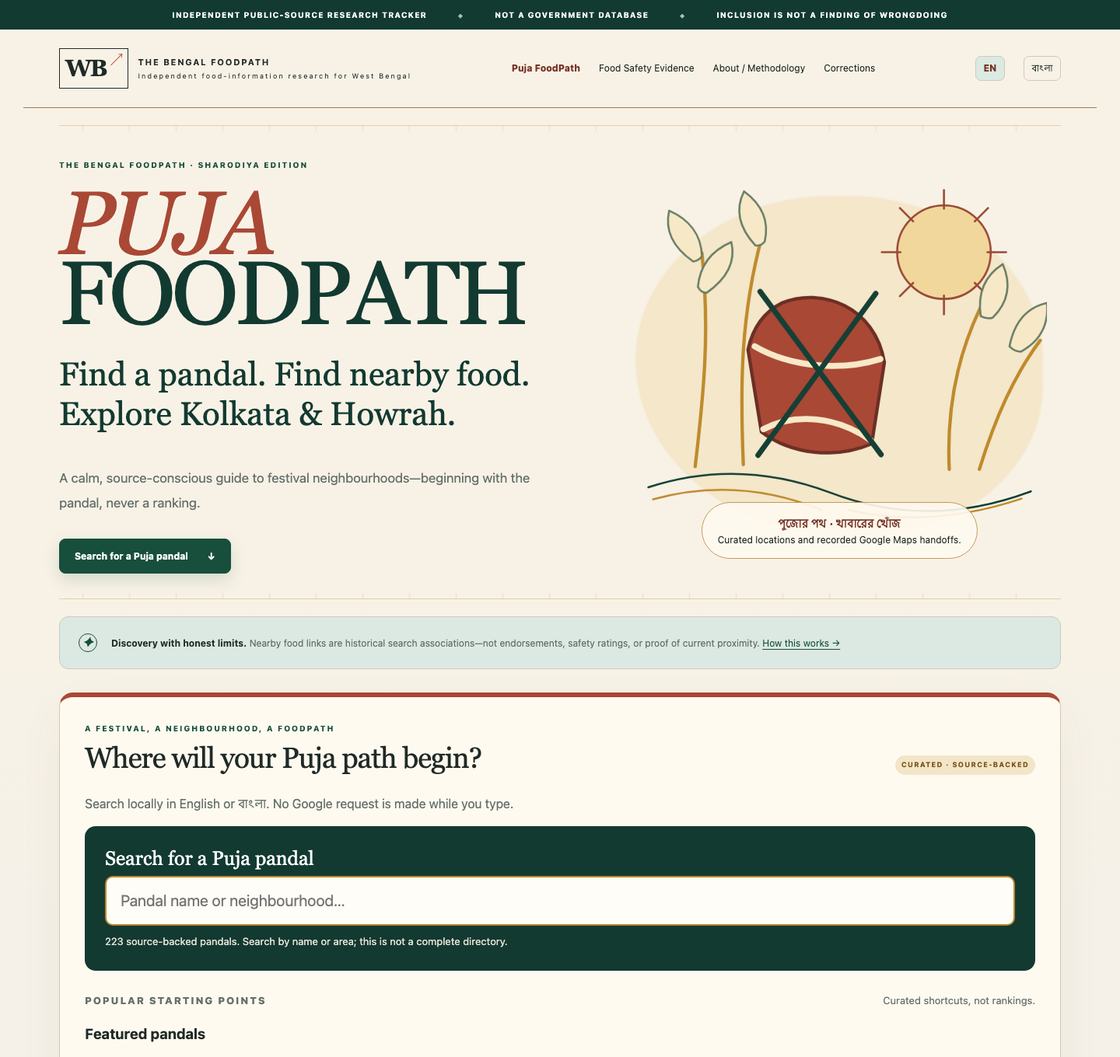
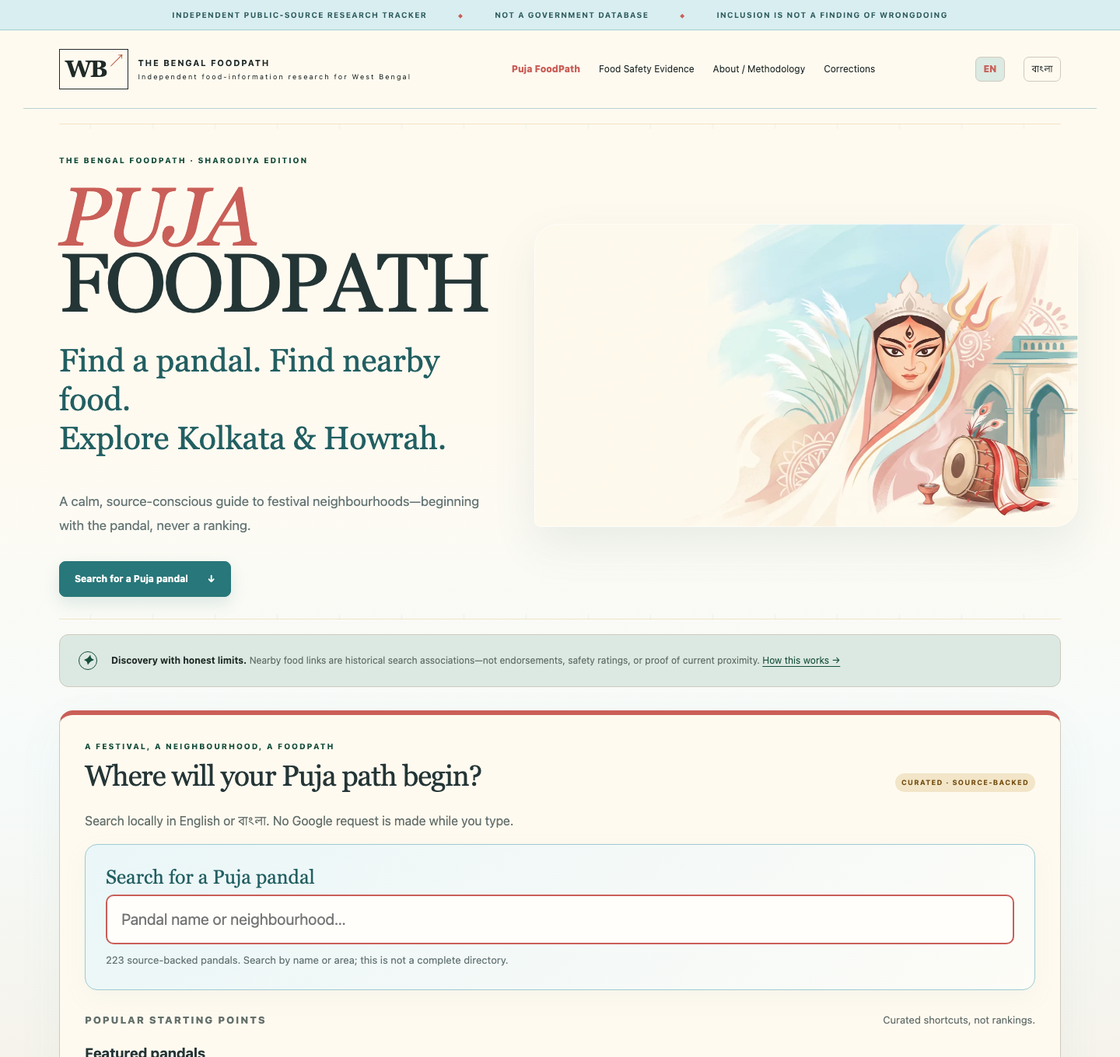
fix: restore production Google map and refine Puja visual theme

diff --git a/site/styles.css b/site/styles.css
@@ -357,35 +357,56 @@ html[lang=bn] .eyebrow, html[lang=bn] .status-strip { letter-spacing: normal; }
 @media (max-width: 640px) { .masthead { flex-wrap: wrap; } .language-toggle { margin-top: .5rem; } .map-key { font-size: .85rem; } }
 @media (prefers-reduced-motion: reduce) { *, *::before, *::after { animation: none !important; transition: none !important; } }
 
-/* Sharodiya landing: warm discovery and cool evidence remain clearly separate. */
-:root { --vermilion:#a94835; --vermilion-dark:#763326; --gold:#c08a2d; --festival-cream:#f7e9c7; --night-green:#123a31; }
-.puja-route { background:linear-gradient(#f8f2e6 0 760px,var(--paper) 1180px); }
-.puja-route .status-strip { background:var(--night-green); }
-.puja-route .masthead { border-bottom-color:#987b55; }
-.puja-route .masthead nav a:first-child { color:var(--vermilion-dark); font-weight:800; }
-.puja-hero { min-height:610px; display:grid; grid-template-columns:1.08fr .92fr; gap:50px; align-items:center; padding:65px 0 55px; position:relative; }
-.puja-hero::before { content:""; position:absolute; inset:22px 0; pointer-events:none; border-block:1px solid #c08a2d55; background:repeating-linear-gradient(90deg,transparent 0 29px,#a9483514 30px 31px,transparent 32px 60px); mask:linear-gradient(black 0 8px,transparent 8px calc(100% - 8px),black calc(100% - 8px)); }
+/* Sharodiya landing: airy festival discovery and calm evidence remain distinct. */
+:root {
+  --puja-ivory:#fffaf0; --puja-sky:#b9dde8; --puja-sky-soft:#eaf6f8;
+  --puja-blush:#f8e8e4; --puja-coral:#c95f58; --puja-gold:#d2a13b;
+  --puja-teal:#28777a; --puja-ink:#243536; --puja-muted:#657575;
+}
+.puja-route { background:linear-gradient(180deg,#fffaf0 0 520px,#f6fbfa 980px,var(--paper) 1450px); color:var(--puja-ink); }
+.puja-route .status-strip { background:#d8eef0; color:#315d60; border-bottom:1px solid #a7ced2; }
+.puja-route .status-strip span + span::before { color:var(--puja-coral); }
+.puja-route .masthead { border-bottom-color:#b8d2d1; }
+.puja-route .masthead nav a:first-child { color:var(--puja-coral); font-weight:800; }
+.puja-hero { min-height:570px; display:grid; grid-template-columns:.9fr 1.1fr; gap:clamp(28px,4vw,62px); align-items:center; padding:58px 0 48px; position:relative; }
+.puja-hero::before { content:""; position:absolute; inset:19px 0; pointer-events:none; border-block:1px solid #d2a13b40; background:repeating-linear-gradient(90deg,transparent 0 39px,#b9dde829 40px 41px,transparent 42px 80px); mask:linear-gradient(black 0 7px,transparent 7px calc(100% - 7px),black calc(100% - 7px)); }
 .puja-hero-copy { position:relative; z-index:1; }
-.puja-hero h1 { font-size:clamp(68px,8vw,116px); line-height:.78; letter-spacing:-5px; margin:22px 0 34px; color:var(--night-green); }
-.puja-hero h1 span { color:var(--vermilion); font-style:italic; }
-.puja-hero .brand-tagline { font:clamp(27px,3vw,42px)/1.22 var(--serif); color:var(--night-green); }
-.puja-hero .dek { max-width:630px; }
-.puja-hero-art { position:relative; align-self:stretch; display:grid; align-content:center; padding:18px; }
-.puja-hero-art::before { content:""; position:absolute; inset:9% 4%; border-radius:50% 50% 46% 54%; background:#efdcae80; filter:blur(1px); }
-.puja-hero-art img { position:relative; width:100%; max-height:470px; animation:festival-breathe 7s ease-in-out infinite; }
-.puja-hero-art p { position:relative; margin:-25px auto 0; padding:14px 20px; max-width:360px; text-align:center; background:#fffaf0e8; border:1px solid #c49b58; border-radius:40px; font-size:12px; }
-.puja-hero-art strong { color:var(--vermilion-dark); font-size:15px; }
-@keyframes festival-breathe { 50% { transform:translateY(-7px) rotate(.35deg); } }
-.puja-section { border-top:6px solid var(--vermilion); box-shadow:0 22px 60px #5c35120d; background:#fffaf0; }
-.puja-search-wrap { max-width:none; padding:26px; background:var(--night-green); border-radius:14px; color:white; }
-.puja-search-wrap label { font:25px/1.2 var(--serif); }
-#pandal-search { background:#fffdf7; border-color:var(--gold); font-size:20px; min-height:64px; }
-#pandal-search-status { color:#e8e3d5; margin-bottom:0; }
-.featured-pandals .pandal-card { position:relative; overflow:hidden; background:#fffdf8; border-color:#d6b982; transition:transform .2s ease,box-shadow .2s ease; }
-.featured-pandals .pandal-card::after { content:"✦"; position:absolute; right:17px; top:10px; color:#c08a2d66; font-size:34px; }
-.featured-pandals .pandal-card:hover { transform:translateY(-3px); box-shadow:0 12px 25px #50310d14; }
-.selected-pandal { background:#fffaf0; border-left-color:var(--vermilion); box-shadow:0 16px 35px #45320f12; animation:selected-reveal .3s ease-out; }
+.puja-hero h1 { font-size:clamp(64px,7.4vw,108px); line-height:.8; letter-spacing:-5px; margin:22px 0 32px; color:var(--puja-ink); }
+.puja-hero h1 span { color:var(--puja-coral); font-style:italic; }
+.puja-hero .brand-tagline { font:clamp(27px,3vw,41px)/1.22 var(--serif); color:#225f62; }
+.puja-hero .dek { max-width:600px; color:var(--puja-muted); }
+.puja-route .primary { background:var(--puja-teal); border-color:var(--puja-teal); box-shadow:0 8px 20px #28777a24; }
+.puja-route .primary:hover { background:#1f6164; }
+.puja-hero-art { position:relative; min-height:390px; aspect-ratio:43/24; overflow:hidden; border-radius:30px 8px 30px 8px; background:linear-gradient(135deg,var(--puja-sky-soft),var(--puja-blush)); box-shadow:0 22px 55px #3d77751c; }
+.puja-hero-art::after { content:""; position:absolute; inset:0; border:1px solid #ffffffaa; border-radius:inherit; pointer-events:none; }
+.puja-hero-art img { width:100%; height:100%; object-fit:cover; object-position:66% center; display:block; animation:festival-breathe 8s ease-in-out infinite; }
+.puja-hero-art-fallback { display:none; position:absolute; inset:0; align-content:center; justify-items:center; gap:8px; color:var(--puja-teal); background:radial-gradient(circle at 68% 45%,#f7deda,transparent 35%),linear-gradient(135deg,var(--puja-sky-soft),var(--puja-ivory)); }
+.puja-hero-art-fallback span { font:48px/1.1 var(--serif); color:var(--puja-coral); }
+.puja-hero-art.image-unavailable img { display:none; }
+.puja-hero-art.image-unavailable .puja-hero-art-fallback { display:grid; }
+@keyframes festival-breathe { 50% { transform:scale(1.012) translateY(-2px); } }
+.puja-section { border-top:6px solid var(--puja-coral); box-shadow:0 22px 60px #4f8d8a10; background:var(--puja-ivory); }
+.puja-search-wrap { max-width:none; padding:26px; background:linear-gradient(135deg,var(--puja-sky-soft),#fdfcf7); border:1px solid #9dcbd2; border-radius:16px; color:var(--puja-ink); box-shadow:0 10px 30px #74aeb012; }
+.puja-search-wrap label { font:25px/1.2 var(--serif); color:#225f62; }
+#pandal-search { background:#fffefb; border-color:var(--puja-coral); font-size:20px; min-height:64px; }
+#pandal-search:focus { outline-color:var(--puja-gold); box-shadow:0 0 0 5px #d2a13b1f; }
+#pandal-search-status { color:var(--puja-muted); margin-bottom:0; }
+.featured-pandals .pandal-card { position:relative; overflow:hidden; background:var(--puja-sky-soft); border-color:#b6d7da; transition:transform .2s ease,box-shadow .2s ease; }
+.featured-pandals .pandal-card:nth-child(2n) { background:#fdf1ed; border-color:#edcac1; }
+.featured-pandals .pandal-card:nth-child(3n) { background:#fff6df; border-color:#ead5a3; }
+.featured-pandals .pandal-card::after { content:"✦"; position:absolute; right:17px; top:10px; color:#c95f5855; font-size:31px; }
+.featured-pandals .pandal-card:hover { transform:translateY(-2px); box-shadow:0 12px 25px #39747716; }
+.selected-pandal { background:linear-gradient(135deg,#f1faf9,var(--puja-ivory)); border-left-color:var(--puja-coral); box-shadow:0 16px 35px #39747712; animation:selected-reveal .3s ease-out; }
 @keyframes selected-reveal { from { opacity:0; transform:translateY(8px); } }
+.geography-intro { margin-top:58px; padding:24px 28px; border-radius:18px 18px 0 0; background:linear-gradient(110deg,#dff2f4,#fff7e8); border:1px solid #b7d9dc; border-bottom:0; }
+.geography-intro .section-heading { margin:0; }
+.puja-route .map-panel { background:linear-gradient(150deg,#f3fbfb,#e7f5f7); border-color:#b5d8db; border-top:0; border-radius:0 0 18px 18px; box-shadow:0 18px 50px #427d7c12; }
+.puja-route .map-panel .panel-heading h3 { font:30px/1.2 var(--serif); color:#245e61; }
+.puja-route .google-map-shell { background:linear-gradient(145deg,#dff2f4,#fff6e3); border-color:#a9d1d5; border-radius:16px; }
+.puja-route .map-fallback { min-height:270px; display:grid; justify-items:center; align-content:center; gap:8px; }
+.puja-route .map-symbol { color:var(--puja-coral); }
+.puja-route .map-layer-key span:first-child { color:#527a85; }
+.puja-route .map-layer-key span:last-child { color:#a4544d; font-weight:700; }
 .food-safety-teaser { display:grid; grid-template-columns:.9fr 1.1fr; gap:50px; align-items:center; margin:55px 0; padding:35px 40px; border-radius:16px; border:1px solid #b5c9c3; border-top:5px solid var(--blue); background:#edf4f2; }
 .food-safety-teaser h2 { font:35px/1.15 var(--serif); margin:5px 0; }
 .food-safety-teaser strong { font:25px var(--serif); color:var(--blue); }
@@ -397,16 +418,16 @@ html[lang=bn] .eyebrow, html[lang=bn] .status-strip { letter-spacing: normal; }
 .safety-route .metrics > div { border-top-color:var(--blue); }
 [hidden] { display:none !important; }
 @media(max-width:800px) {
-  .puja-hero { grid-template-columns:1fr; min-height:auto; padding-top:42px; gap:0; }
+  .puja-hero { grid-template-columns:1fr; min-height:auto; padding-top:42px; gap:30px; }
   .puja-hero h1 { letter-spacing:-3px; }
-  .puja-hero-art { max-width:500px; margin:auto; }
+  .puja-hero-art { width:100%; min-height:0; max-height:440px; margin:auto; }
   .food-safety-teaser { grid-template-columns:1fr; gap:15px; padding:27px 22px; }
 }
 @media(max-width:520px) {
   .puja-route .masthead nav { display:grid; grid-template-columns:1fr 1fr; }
   .puja-hero h1 { font-size:60px; }
   .puja-hero .brand-tagline { font-size:26px; }
-  .puja-hero-art img { max-height:310px; }
+  .puja-hero-art { border-radius:20px 6px 20px 6px; }
   .puja-search-wrap { padding:20px 15px; }
   .safety-hero { padding:34px 22px; }
 }

diff --git a/site/index.html b/site/index.html
@@ -33,7 +33,7 @@
     <div id="dashboard-view">
     <section class="puja-hero puja-only" aria-labelledby="headline">
       <div class="puja-hero-copy"><p class="eyebrow">THE BENGAL FOODPATH · SHARODIYA EDITION</p><h1 id="headline"><span>PUJA</span><br>FOODPATH</h1><p class="brand-tagline">Find a pandal. Find nearby food.<br>Explore Kolkata &amp; Howrah.</p><p class="dek">A calm, source-conscious guide to festival neighbourhoods—beginning with the pandal, never a ranking.</p><a class="button primary" href="#pandal-search">Search for a Puja pandal <span aria-hidden="true">↓</span></a></div>
-      <div class="puja-hero-art"><img src="assets/puja-line-art.svg" alt=""><p><strong>পুজোর পথ · খাবারের খোঁজ</strong><br>Curated locations and recorded Google Maps handoffs.</p></div>
+      <div class="puja-hero-art"><img id="puja-hero-image" src="assets/puja/puja_hero.webp" width="1376" height="768" alt="An elegant Sharodiya illustration of Maa Durga, kaash flowers, a dhaak and Kolkata architecture"><div class="puja-hero-art-fallback" aria-hidden="true"><span>শারদীয়া</span><strong>পুজোর পথ · খাবারের খোঁজ</strong></div></div>
     </section>
     <section class="safety-hero safety-only" aria-labelledby="food-safety-heading"><p class="eyebrow">RESEARCH / PUBLIC-SOURCE EVIDENCE</p><h1>FOOD SAFETY<br><em>EVIDENCE</em></h1><p class="brand-tagline">Source-backed inspection reporting, with visible limits.</p><dl class="edition-status"><dt>Last successful refresh</dt><dd id="last-update">Loading status…</dd><dt>Last source scan</dt><dd id="last-scan">Loading…</dd><dt>Dataset version</dt><dd id="dataset-version">Loading…</dd></dl><p id="run-status" class="fine-print">Checking update status.</p><a class="text-link" href="index.html">← Return to Puja FoodPath</a></section>
     <aside class="interpretation puja-only"><span class="note-symbol" aria-hidden="true">✦</span><p><strong>Discovery with honest limits.</strong> Nearby food links are historical search associations—not endorsements, safety ratings, or proof of current proximity. <a href="methodology.html">How this works →</a></p></aside>
@@ -54,7 +54,7 @@
       <div class="featured-heading"><div><p class="eyebrow">POPULAR STARTING POINTS</p><h3>Featured pandals</h3></div><p>Curated shortcuts, not rankings.</p></div><div id="featured-pandals" class="featured-pandals"></div>
       <p class="puja-notice">Restaurant discovery is separate from food-safety evidence. Nearby does not mean safe, inspected, or endorsed.</p>
     </section>
-    <section id="geography" class="puja-only" aria-labelledby="geography-heading"><div class="section-heading"><div><p class="eyebrow">PANDALS FIRST · CONTEXT ON REQUEST</p><h2 id="geography-heading">See the festival geography</h2></div><p>Curated pandals by default.<br>Food-safety areas are an optional layer.</p></div></section>
+    <section id="geography" class="puja-only geography-intro" aria-labelledby="geography-heading"><div class="section-heading"><div><p class="eyebrow">PANDALS FIRST · CONTEXT ON REQUEST</p><h2 id="geography-heading">Explore Puja geography</h2></div><p>Curated pandals by default.<br>Food-safety areas are optional context.</p></div></section>
     <section class="food-safety-teaser puja-only"><div><p class="eyebrow">A SEPARATE RESEARCH MODULE</p><h2>Food Safety Evidence</h2><p><strong id="teaser-events">—</strong> active records · <strong id="teaser-areas">—</strong> areas · <strong id="teaser-sources">—</strong> sources</p></div><div><p>Inspect the cited reporting, filters, provenance and publication history. Festival discovery does not change the meaning of these records.</p><a class="button research" href="index.html?module=safety">Explore the evidence tracker →</a></div></section>
     <details id="evidence-analytics" class="analytics-disclosure safety-only" open><summary>Explore food-safety analytics <span>Coverage, trends and source composition</span></summary>
     <section aria-labelledby="patterns-heading">
@@ -65,7 +65,7 @@
       </div>
       <div class="chart-grid">
         <article class="chart-panel wide"><div class="panel-heading"><div><h3>Reported events over time</h3><p>Source-verifiable records in this tracker—not official inspection totals.</p></div><span>DATE</span></div><div id="chart-timeline" class="chart chart-svg" role="group" aria-label="Reported records over time. Select a date to filter evidence."></div><p class="chart-notice"></p></article>
-        <article class="chart-panel wide map-panel"><div class="panel-heading"><div><h3>Geographic view of reported areas</h3><p id="map-coverage">Loading geographic coverage…</p></div><span>COARSE LOCATION</span></div><div class="google-map-shell"><div id="google-map-host"></div><div id="map-fallback" class="map-fallback"><span aria-hidden="true" class="map-symbol">⌖</span><h3>Your local context, on the map.</h3><p id="google-map-status" role="status">The area summary below works without Google Maps.</p><button id="load-google-map" class="button secondary" type="button" disabled>Open live Google map</button><p class="fine-print">Only loading the map contacts Google. Pandal search makes no Google Places requests.</p></div></div><div class="map-layer-key"><span>● Reported food-safety areas</span><span>◆ Curated Puja pandals</span></div><details class="area-summary" open><summary>Reported areas — accessible list</summary><div id="chart-map" class="chart" role="group" aria-label="Coarse geographic reference points for records with reviewed location anchors"></div></details><p class="context-caption">Markers indicate reviewed geographic anchors for reported areas. They are not establishment addresses and should not be interpreted as a measure of incidence or prevalence. Select a marker or area button to inspect the evidence.</p><p class="fine-print"><a href="https://www.openstreetmap.org/copyright" rel="noopener noreferrer">Area anchors © OpenStreetMap contributors</a> · <a href="https://www.google.com/help/terms_maps/" rel="noopener noreferrer">Google Maps terms</a> · <a href="https://policies.google.com/privacy" rel="noopener noreferrer">Google privacy</a></p></article>
+        <article class="chart-panel wide map-panel"><div class="panel-heading"><div><p class="eyebrow">OPTIONAL LIVE MAP</p><h3>Explore Puja geography</h3><p id="map-coverage">Loading geographic coverage…</p></div><span>PANDALS FIRST</span></div><div class="google-map-shell"><div id="google-map-host"></div><div id="map-fallback" class="map-fallback"><span aria-hidden="true" class="map-symbol">⌖</span><h3>Festival geography, when you want it.</h3><p id="google-map-status" role="status">The festival and area lists work without loading Google Maps.</p><button id="load-google-map" class="button secondary" type="button" disabled hidden>Open live Google map</button><p class="fine-print">Only loading the map contacts Google. Pandal search makes no Google Places requests.</p></div></div><div class="map-layer-key"><span>● Food Safety areas · optional context</span><span>◆ Curated Puja pandals · shown first</span></div><details class="area-summary" open><summary>Reported areas — accessible list</summary><div id="chart-map" class="chart" role="group" aria-label="Coarse geographic reference points for records with reviewed location anchors"></div></details><p class="context-caption">Markers indicate reviewed geographic anchors for reported areas. They are not establishment addresses and should not be interpreted as a measure of incidence or prevalence. Select a marker or area button to inspect the evidence.</p><p class="fine-print"><a href="https://www.openstreetmap.org/copyright" rel="noopener noreferrer">Area anchors © OpenStreetMap contributors</a> · <a href="https://www.google.com/help/terms_maps/" rel="noopener noreferrer">Google Maps terms</a> · <a href="https://policies.google.com/privacy" rel="noopener noreferrer">Google privacy</a></p></article>
         <article class="chart-panel"><div class="panel-heading"><h3>Areas in the records</h3><span>GEOGRAPHY</span></div><div id="chart-areas" class="chart chart-svg" role="group" aria-label="Published records by normalized area"></div><p class="chart-notice"></p></article>
         <article class="chart-panel"><div class="panel-heading"><h3>Reported action categories</h3><span>ACTION</span></div><div id="chart-actions" class="chart chart-svg" role="group" aria-label="Published records by reviewed action category"></div><p class="chart-notice"></p></article>
         <article class="chart-panel"><div class="panel-heading"><h3>Establishment context</h3><span>DERIVED CONTEXT</span></div><div id="chart-establishments" class="chart chart-svg" role="group" aria-label="Published records by reviewed establishment context"></div><p class="context-caption">Contextual classification—not an official food-safety category or finding.</p><p class="chart-notice"></p></article>

diff --git a/site/app.js b/site/app.js
@@ -8,6 +8,8 @@ import { phase1, sourceWarning, copy as phaseCopy } from './phase1.mjs';
 import { applyRoute, safetyRoute } from './routes.mjs';
 
 translateStatic();
+const pujaHero = document.getElementById('puja-hero-image');
+if (pujaHero) pujaHero.addEventListener('error', () => pujaHero.closest('.puja-hero-art')?.classList.add('image-unavailable'));
 const isRecordRoute = applyRoute(document, location.search);
 const isSafetyRoute = safetyRoute(location.search);
 if (isSafetyRoute) {
@@ -18,7 +20,7 @@ if (isSafetyRoute) {
 if (!isRecordRoute) {
   if (!isSafetyRoute) {
     const panel = document.querySelector('.map-panel');
-    panel.querySelector('.panel-heading h3').textContent = language === 'bn' ? 'পুজোর মানচিত্র · কলকাতা ও হাওড়া' : 'Puja map · Kolkata & Howrah';
+    panel.querySelector('.panel-heading h3').textContent = language === 'bn' ? 'পুজোর ভৌগোলিক মানচিত্র' : 'Explore Puja geography';
     document.getElementById('geography').append(panel);
   }
   initPuja(setMapPandals);

diff --git a/tests/test_public_workflow.py b/tests/test_public_workflow.py
@@ -5,15 +5,17 @@ import yaml
 ROOT = Path(__file__).resolve().parents[1]
 
 
-def test_refresh_is_two_hour_bounded_and_has_no_push_loop():
+def test_refresh_is_two_hour_bounded_and_release_push_skips_discovery():
     workflow = yaml.load(
         (ROOT / ".github/workflows/update-data.yml").read_text(), Loader=yaml.BaseLoader
     )
     assert workflow["name"] == "Refresh Food Safety Data"
-    assert set(workflow["on"]) == {"workflow_dispatch", "schedule"}
+    assert set(workflow["on"]) == {"workflow_dispatch", "schedule", "push"}
     assert workflow["on"]["schedule"][0]["cron"] == "17 */2 * * *"
+    assert workflow["on"]["push"]["branches"] == ["main"]
     job = workflow["jobs"]["candidates"]
     assert job["env"]["AUTO_PUBLISH"] == "true"
+    assert job["env"]["GOOGLE_MAPS_BROWSER_KEY"] == "${{ secrets.GOOGLE_MAPS_BROWSER_KEY }}"
     assert any(
         step.get("env", {}).get("GEMINI_API_KEY") == "${{ secrets.GEMINI_API_KEY }}"
         for step in job["steps"]
@@ -25,6 +27,10 @@ def test_refresh_is_two_hour_bounded_and_has_no_push_loop():
     assert "git diff --cached --quiet" in steps
     assert "git add ." not in steps
     assert "upload-artifact" not in str(workflow)
+    scans = [step for step in job["steps"] if step.get("name", "").startswith("Limited source")]
+    assert scans[0]["if"] == "github.event_name != 'push'"
+    assert "maps-config.json" in steps or "git add" in steps
+    assert "test -e data/puja_refresh.json" in steps
 
 
 def test_canonical_urls_and_readme_assets_exist():

diff --git a/tests/test_browser_maps.py b/tests/test_browser_maps.py
@@ -15,7 +15,7 @@ def test_browser_key_absent_does_not_fall_back_to_places_key(tmp_path, monkeypat
     assert json.loads((tmp_path / "site/maps-config.json").read_text()) == {"browser_key": ""}
 
 
-def test_ignored_config_is_deterministic_and_explicit(tmp_path, monkeypatch):
+def test_deployable_config_is_deterministic_and_explicit(tmp_path, monkeypatch):
     key = "AIza" + "a" * 35  # Synthetic, never a real credential.
     monkeypatch.setenv("GOOGLE_MAPS_BROWSER_KEY", key)
     build_browser_config(tmp_path)
@@ -23,7 +23,18 @@ def test_ignored_config_is_deterministic_and_explicit(tmp_path, monkeypatch):
     build_browser_config(tmp_path)
     assert (tmp_path / "site/maps-config.json").read_bytes() == first
     assert json.loads(first) == {"browser_key": key}
-    assert "site/maps-config.json" in (ROOT / ".gitignore").read_text()
+    assert "site/maps-config.json" not in (ROOT / ".gitignore").read_text()
+    assert json.loads((ROOT / "site/maps-config.json").read_text()) == {"browser_key": ""}
+
+
+def test_production_build_uses_environment_without_dotenv(tmp_path, monkeypatch):
+    key = "AIza" + "p" * 35
+    monkeypatch.setenv("GOOGLE_MAPS_BROWSER_KEY", key)
+    assert not (tmp_path / ".env").exists()
+    build_browser_config(tmp_path)
+    assert json.loads((tmp_path / "site/maps-config.json").read_text()) == {
+        "browser_key": key
+    }
 
 
 @pytest.mark.parametrize("server", ["GOOGLE_MAPS_API_KEY", "GEMINI_API_KEY"])

diff --git a/scripts/audit_repository.py b/scripts/audit_repository.py
@@ -23,6 +23,7 @@ SCAN_SOURCE_EXEMPT = {
     "scripts/verify_public_output.py",
     "tests/test_public_repository.py",
 }
+PUBLIC_BROWSER_CONFIG = "site/maps-config.json"
 ALLOWED_AUTHOR_DOMAINS = {"users.noreply.github.com"}
 
 
@@ -65,6 +66,19 @@ def reachable_blobs(root, revisions):
     return result, total
 
 
+def _is_public_browser_config(path, body):
+    """Recognize only the exact one-field, intentionally public client config."""
+    if path != PUBLIC_BROWSER_CONFIG:
+        return False
+    try:
+        value = json.loads(body)
+    except (UnicodeDecodeError, json.JSONDecodeError):
+        return False
+    return isinstance(value, dict) and set(value) == {"browser_key"} and bool(
+        re.fullmatch(r"AIza[A-Za-z0-9_-]{35}", value["browser_key"] or "")
+    )
+
+
 def content_findings(blobs):
     private = sorted(
         {
@@ -75,7 +89,13 @@ def content_findings(blobs):
             or SUSPICIOUS_NAMES.search(path)
         }
     )
-    secrets = sorted({path for path, body in blobs if SECRET.search(body)})
+    secrets = sorted(
+        {
+            path
+            for path, body in blobs
+            if SECRET.search(body) and not _is_public_browser_config(path, body)
+        }
+    )
     machine = sorted(
         {
             path

diff --git a/tests/test_public_repository.py b/tests/test_public_repository.py
@@ -114,3 +114,22 @@ def test_sensitive_content_in_pull_ref_is_reported_and_blocking(tmp_path):
     assert result["pull_ref_secret_pattern_paths"] == [".env"]
     assert result["pull_ref_sensitive_content_found"] is True
     assert result["audit_passed"] is False
+
+
+def test_exact_public_browser_config_is_not_misclassified_as_server_secret(tmp_path):
+    root = _audit_fixture(tmp_path)
+    (root / "site").mkdir()
+    key = "AIza" + "b" * 35
+    (root / "site/maps-config.json").write_text('{"browser_key":"' + key + '"}\n')
+    _git(root, "add", "site/maps-config.json")
+    _git(root, "commit", "-m", "publish restricted browser config")
+    result = audit(root)
+    assert result["secret_pattern_paths"] == []
+    assert result["audit_passed"] is True
+
+    (root / "site/leak.txt").write_text(key)
+    _git(root, "add", "site/leak.txt")
+    _git(root, "commit", "-m", "leak same-shaped key elsewhere")
+    result = audit(root)
+    assert result["secret_pattern_paths"] == ["site/leak.txt"]
+    assert result["audit_passed"] is False

diff --git a/scripts/verify_public_output.py b/scripts/verify_public_output.py
@@ -18,6 +18,8 @@ REQUIRED = [
     "data/events.csv",
     "data/events.csv.metadata.json",
     "data/pandals.json",
+    "maps-config.json",
+    "assets/puja/puja_hero.webp",
     "_headers",
 ]
 FORBIDDEN = [".env", "data/pending.json", "data/rejected.json", "data/history", "data/runs"]
@@ -109,13 +111,14 @@ def main() -> None:
                 ".csv",
                 ".svg",
                 ".png",
+                ".webp",
                 ".md",
                 ".txt",
             }
             and path.name not in {"_headers", "sitemap.xml"}
         ):
             present.append("unexpected public asset type")
-        if path.suffix != ".png":
+        if path.suffix not in {".png", ".webp"}:
             text = path.read_text()
             if path == SITE / "maps-config.json":
                 if json.loads(text) != expected_maps:

diff --git a/src/food_safety/browser_maps.py b/src/food_safety/browser_maps.py
@@ -30,4 +30,9 @@ def browser_config(root):
 
 
 def build_browser_config(root):
+    """Write the intentionally public, browser-restricted Maps credential.
+
+    The file is a deployable client artifact, not a server secret. GitHub Actions
+    supplies it from GOOGLE_MAPS_BROWSER_KEY; it must never use the Places key.
+    """
     dump(root / "site/maps-config.json", browser_config(root))

diff --git a/docs/BROWSER_MAP.md b/docs/BROWSER_MAP.md
@@ -20,7 +20,9 @@ to be safe, endorsed or inspected. No Places/Details call occurs in the visitor 
   protected by Google Cloud website and API restrictions.
 
 Never reuse the server key. The build fails if the browser key equals a configured
-Places or Gemini key. No real credential belongs in Git, including browser keys.
+Places or Gemini key. The browser key is intentionally public client configuration;
+its Google Cloud API and referrer restrictions are the security boundary. Server
+credentials never belong in Git or public output.
 
 ## Owner setup
 
@@ -33,8 +35,10 @@ Places or Gemini key. No real credential belongs in Git, including browser keys.
 3. Under **API restrictions**, restrict the key to **Maps JavaScript API only**. Do not
    enable Places or server discovery APIs for this browser credential. Configure Cloud
    quotas/budget alerts; the operator's local 3,000-call ledger does not count map loads.
-4. Set `GOOGLE_MAPS_BROWSER_KEY` locally in your ignored `.env` or shell environment.
-   `.env.example` has only a blank placeholder. Do not put the value in tracked config.
+4. Add `GOOGLE_MAPS_BROWSER_KEY` at **Repository → Settings → Secrets and variables →
+   Actions → Repository secrets**. The existing refresh workflow passes it only to the
+   static build. For local use, set it in ignored `.env` or the shell; `.env.example`
+   has only a blank placeholder.
 5. Activate `food` and run:
 
    ```bash
@@ -79,21 +83,21 @@ Festival-data refresh is separate: the existing Actions workflow checks a
 persisted due-time guard (default six hours, maximum ten research runs/day).
 It rebuilds our catalog without loading maps or running Places discovery.
 
-The build creates **ignored** `site/maps-config.json`. It is an intended public browser
-configuration, not a secret endpoint. Only the exact schema/value matching the configured
-browser key is exempted by public-output verification; all other credential scanning
-remains in place. Build without the variable (and remove its `.env` entry) to regenerate
-the blank configuration. Do not commit the generated file or copy it into other JSON.
+The build creates `site/maps-config.json`, an intentionally public browser artifact—not
+a secret endpoint. A blank tracked version provides the no-key fallback. On a `main`
+release push, the existing workflow builds the keyed artifact and commits it for the
+tracked-static Cloudflare deployment. Only its exact one-field schema is exempted by
+the public-output and repository audits; all other key patterns remain blocking.
+Build with `GOOGLE_MAPS_BROWSER_KEY=` to regenerate the blank fallback.
 
-## Release wiring (not changed in this task)
+## Release wiring
 
-An ignored artifact does not reach hosting through a Git push alone. The existing
-deployment must run the static build with `GOOGLE_MAPS_BROWSER_KEY` available before
-uploading `site/` for a keyed map. If it only uploads tracked files, it will safely show
-the no-key fallback until the owner supplies that build-time environment/input. No
-Worker code, Cloudflare account setting, domain, deployment workflow, or production
-secret was changed here. Do not add this key to a bot commit. Browser smoke can test one
-explicit live load with the restricted local browser key; that mode captures no imagery.
+The existing refresh workflow also runs on a `main` push. Release pushes skip discovery
+and model calls, run validation/build with the Actions browser-key secret, and commit only
+approved generated assets. GitHub-token bot commits do not recursively trigger workflows.
+Cloudflare's existing Git integration then deploys the tracked `site/` tree. If the secret
+is missing, the blank artifact deploys and the public page shows a polished static fallback.
+No Worker, domain, DNS, or Cloudflare account configuration changes are required.
 
 ## Runtime and security boundaries
 

diff --git a/docs/DEPLOYMENT.md b/docs/DEPLOYMENT.md
@@ -10,7 +10,7 @@ The project does not store Cloudflare credentials, account IDs, domain verificat
 
 ## Build and deploy
 
-`site/` is a versioned, prevalidated static artifact. Cloudflare needs no Python build to serve it. Set the Workers Builds deployment command to `npx wrangler deploy` (Cloudflare-managed environment); the local `wrangler.jsonc` specifies `site/`. Do not install global tooling or expose any tokens in the frontend. The existing custom-domain association remains in the Cloudflare dashboard.
+`site/` is a versioned, prevalidated static artifact. Cloudflare needs no Python build to serve it. Set the Workers Builds deployment command to `npx wrangler deploy` (Cloudflare-managed environment); the local `wrangler.jsonc` specifies `site/`. Do not install global tooling or expose server tokens in the frontend. The existing custom-domain association remains in the Cloudflare dashboard. The intentionally public, browser-restricted Maps key is generated into `site/maps-config.json` by GitHub Actions; the private Places key is never used there.
 
 GitHub CI checks code, data, tests and public output. The scheduled refresh runs every two hours and commits only validated public artifacts. Cloudflare Git integration observes changes to `main`. Its deployment status should be checked in the Cloudflare dashboard after any push; a successful GitHub push alone is not proof of deployment.
 
@@ -18,7 +18,7 @@ GitHub CI checks code, data, tests and public output. The scheduled refresh runs
 
 Run `python scripts/verify_public_output.py` before committing artifacts. On the live URL, verify HTTPS, CSP, `frame-ancestors 'none'`, HSTS, `X-Content-Type-Options`, referrer and permissions policies with `python scripts/check_deployment.py`. That bounded check does not log cookies or credentials.
 
-Cloudflare Workers static assets apply `site/_headers`. Domain-level security settings must not loosen them. Check English and `?lang=bn`, a record URL, data exports, correction links and the local map. No external map/font/translation request is needed.
+Cloudflare Workers static assets apply `site/_headers`. Domain-level security settings must not loosen them. Check English and `?lang=bn`, a record URL, data exports, correction links and the keyless map fallback. A deliberate live-map smoke contacts Google Maps; ordinary page load, fonts and translation remain local.
 
 Rollback using Cloudflare deployment history to a previously validated version, then revert the corresponding generated-data commit if necessary. Do not force-push history as a routine rollback. Pause the refresh workflow during an accuracy incident and suspend disputed records using the documented CLI.
 

diff --git a/README.md b/README.md
@@ -38,7 +38,7 @@ Select a pandal to read its source, listing year and available restaurant links.
 
 ![Puja FoodPath homepage with festival illustration and local pandal search](docs/assets/puja_preview.png)
 
-The preview shows the current development release; it contains project-authored artwork and local data, with no captured Google map imagery.
+The preview shows the current development release; it contains the locally hosted Sharodiya hero supplied for this project and local data, with no captured Google map imagery. The optimized website asset is `site/assets/puja/puja_hero.webp`; its development source and usage note are retained under [`docs/assets/`](docs/assets/ASSET_PROVENANCE.md).
 
 ## How Puja discovery works
 
